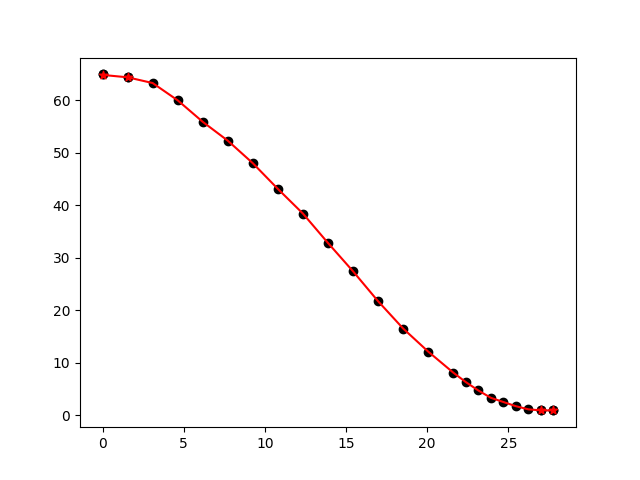
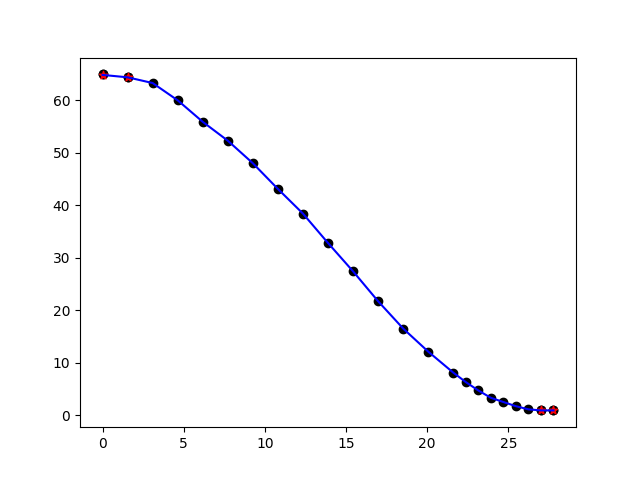
AOA 2.5.4.2: not use discrete x as curvx, but use train x as curvex

diff --git a/AOA/util/Plot.py b/AOA/util/Plot.py
@@ -14,7 +14,7 @@ class Plot:
         Plot.plot_train_val(train_x=train_x, train_y=train_y, val_x=val_x, val_y=val_y,
                             pred_val_y=pred_val_y)
 
-        plt.plot(curve_x, curve_y, c='r')
+        plt.plot(curve_x, curve_y, c='b')
 
         # x_y_cubic = interp1d(curve_x, curve_y, kind='cubic')
         # _x1 = np.linspace(min(curve_x), max(curve_x), curve_step)
